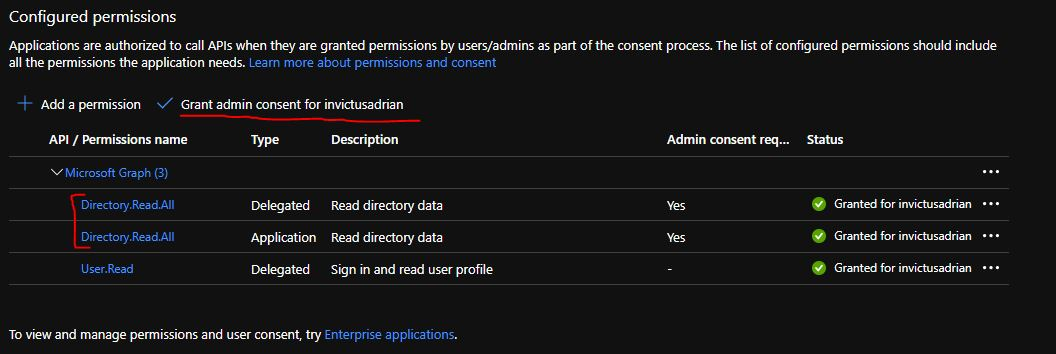
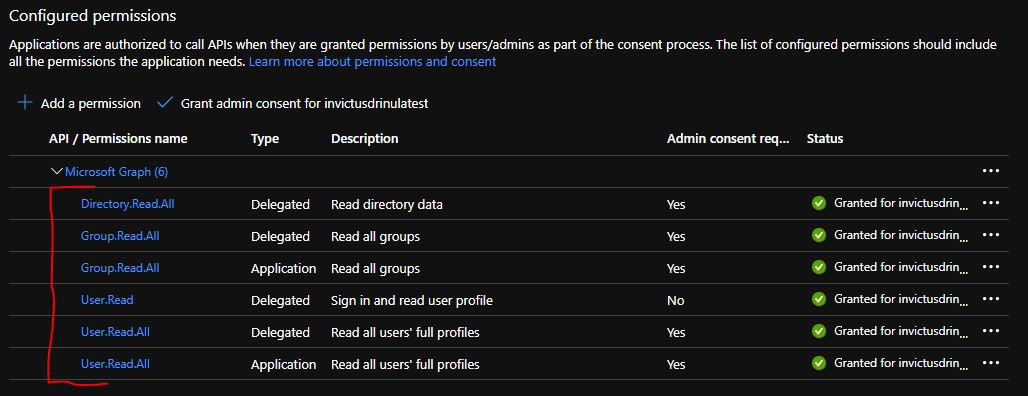
adr - fixed screenshot and text

diff --git a/dashboard/groupmanagement.md b/dashboard/groupmanagement.md
@@ -25,7 +25,7 @@ Once registered, go to Authentication from the side menu and add these two new l
 
 ![aad3](../images/dashboard/aad_7.JPG)
 
-Go to API Permissions from the side menu and add these two:- Directory.Read.All Delegated and Application and press the Grant admin consent for button.
+Go to API Permissions from the side menu and add all of these permissions and press the Grant admin consent for button.
 
 ![aad4](../images/dashboard/aad_3.JPG)
 
